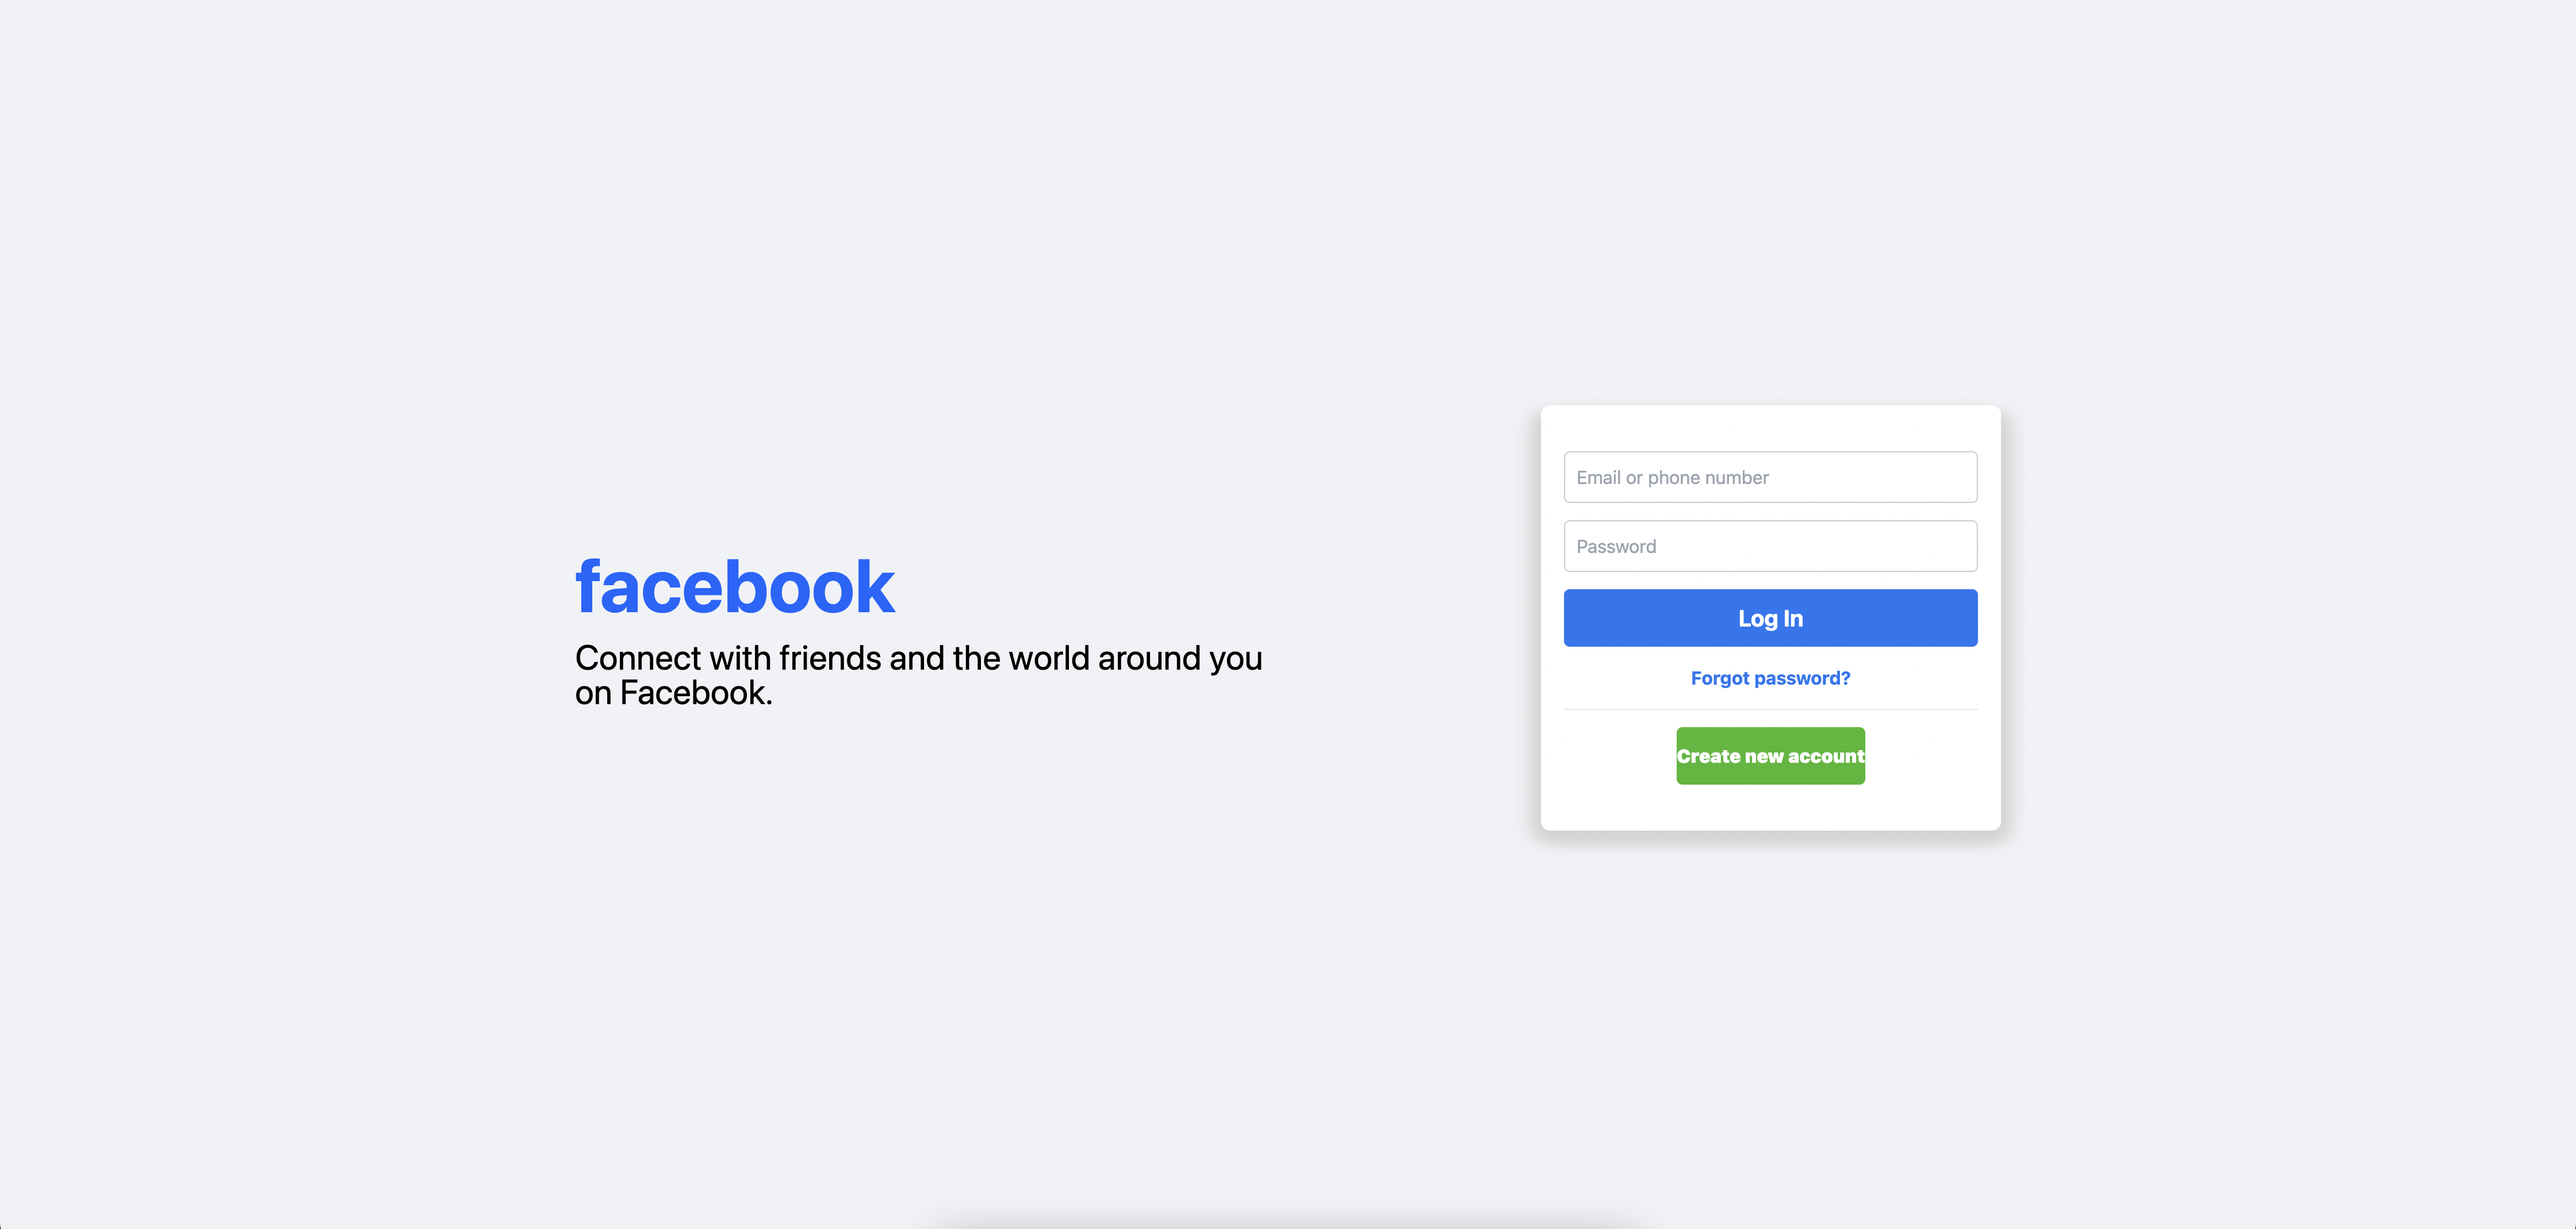
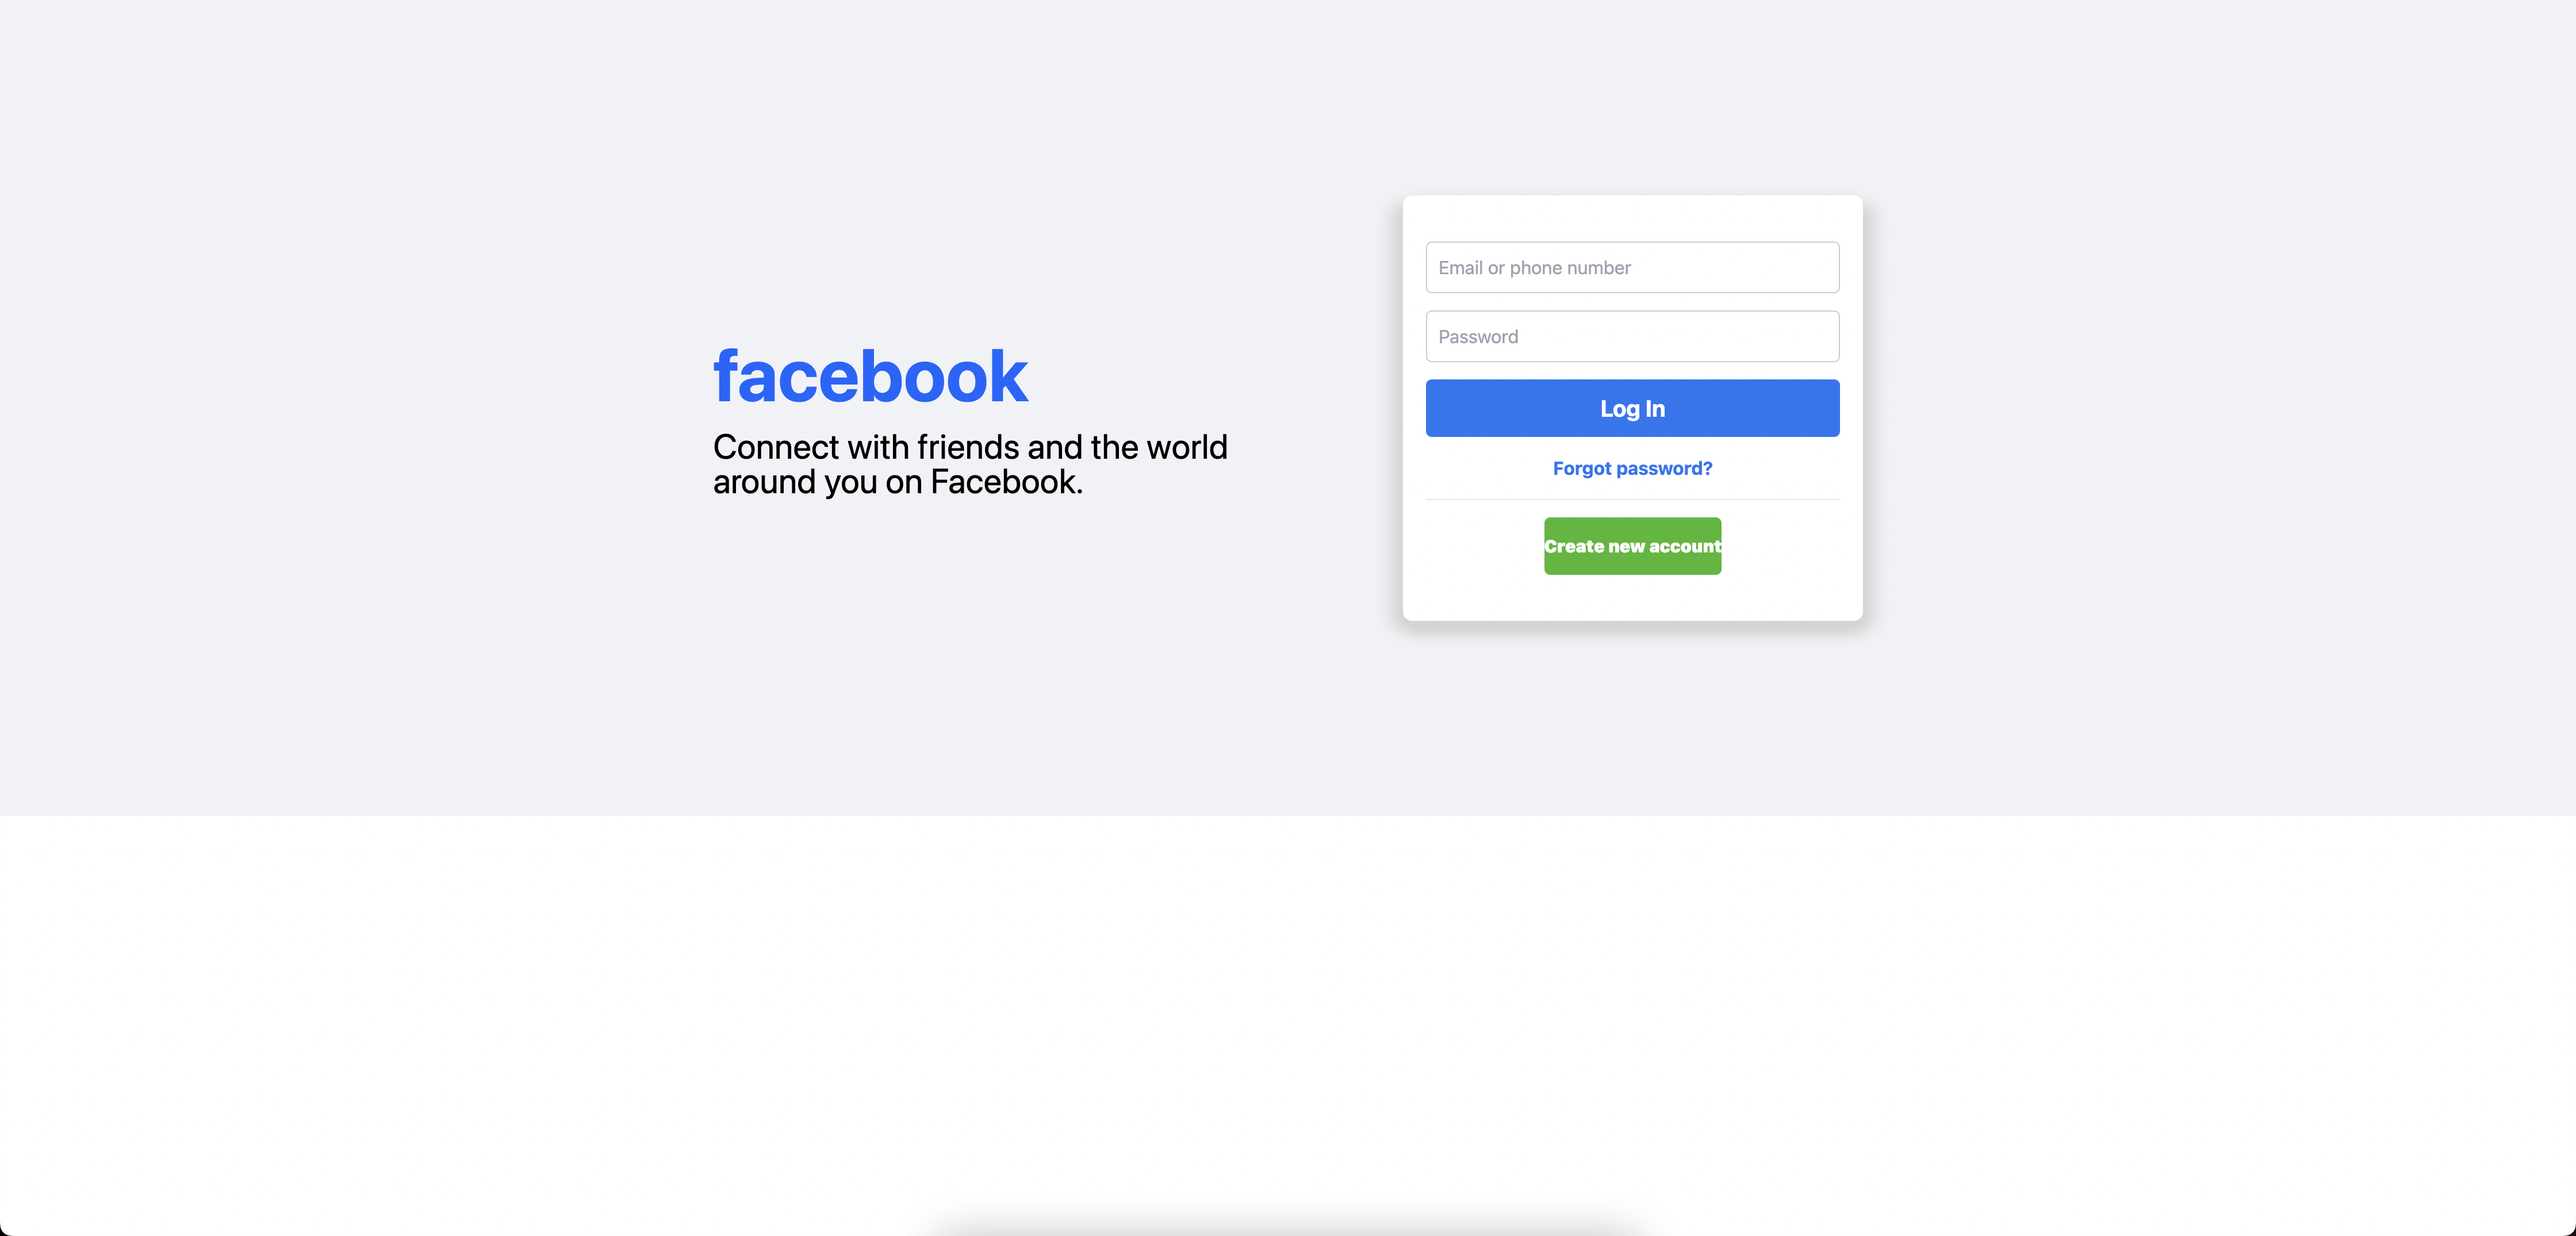
insta

diff --git a/shitass/src/pages/index.js b/shitass/src/pages/index.js
@@ -5,45 +5,114 @@ import Layout from "@/component/Layout";
 import Container from "@/styles/container.module.css";
 import PageText from "@/component/PageText";
 import Link from "next/link";
+import Image from "next/image";
 import buttonCss from "@/styles/button.module.css";
+import igCss from "@/styles/instacon.module.css";
+import InstaButton from "@/component/InstaButton";
+
+// export default function Home() {
+//   const loginBtn = {
+//     text: "Log In",
+//     bg: "#1a77f2",
+//     txtColor: "white",
+//     width: "90%",
+//     height: "50px",
+//     radius: "5px",
+//     fontSize: "20px",
+//   };
+//   const forgotBtn = {
+//     text: "Forgot password?",
+//     txtColor: "#1a77f2",
+//   };
+//   const createBtn = {
+//     text: "Create new account",
+//     txtColor: "white",
+//     bg: "#43b72a",
+//     width: "700%",
+//     height: "50px",
+//     radius: "5px",
+//     fontSize: "15px",
+//   };
+
+//   return (
+//     <div className={Container.container}>
+//       <PageText></PageText>
+//       <Layout>
+//         <Input placeholder={"Email or phone number"} />
+//         <Input placeholder={"Password"} password={"password"}></Input>
+//         <Button {...loginBtn} />
+//         <Button {...forgotBtn} />
+//         <hr className={Container.line}></hr>
+//         <Link href="/modal" className={buttonCss.button}>
+//           <Button {...createBtn}></Button>
+//         </Link>
+//       </Layout>
+//     </div>
+//   );
+// }
+
+const coms = [
+  { component: "InstaButton", params: { imgsrc: "/home.png", text: "Home" } },
+  {
+    component: "InstaButton",
+    params: { imgsrc: "/search.png", text: "Search" },
+  },
+  {
+    component: "InstaButton",
+    params: { imgsrc: "/compass.png", text: "Explore" },
+  },
+  { component: "InstaButton", params: { imgsrc: "/reels.png", text: "Reels" } },
+  {
+    component: "InstaButton",
+    params: { imgsrc: "/msngr.png", text: "Messenger" },
+  },
+  {
+    component: "InstaButton",
+    params: { imgsrc: "/heart.png", text: "Notifications" },
+  },
+  { component: "InstaButton", params: { imgsrc: "/add.png", text: "Create" } },
+
+  {
+    component: "InstaButton",
+    params: { imgsrc: "/profile.png", text: "Profile" },
+  },
+];
+
+const compToRender = [
+  {
+    component: "InstaButton",
+    params: { imgsrc: "/at.png", text: "Threads" },
+  },
+  {
+    component: "InstaButton",
+    params: { imgsrc: "/menu.png", text: "More" },
+  },
+];
 
 export default function Home() {
-  const loginBtn = {
-    text: "Log In",
-    bg: "#1a77f2",
-    txtColor: "white",
-    width: "90%",
-    height: "50px",
-    radius: "5px",
-    fontSize: "20px",
-  };
-  const forgotBtn = {
-    text: "Forgot password?",
-    txtColor: "#1a77f2",
-  };
-  const createBtn = {
-    text: "Create new account",
-    txtColor: "white",
-    bg: "#43b72a",
-    width: "700%",
-    height: "50px",
-    radius: "5px",
-    fontSize: "15px",
-  };
-
   return (
-    <div className={Container.container}>
-      <PageText></PageText>
-      <Layout>
-        <Input placeholder={"Email or phone number"} />
-        <Input placeholder={"Password"} password={"password"}></Input>
-        <Button {...loginBtn} />
-        <Button {...forgotBtn} />
-        <hr className={Container.line}></hr>
-        <Link href="/modal" className={buttonCss.button}>
-          <Button {...createBtn}></Button>
-        </Link>
-      </Layout>
+    <div className={igCss.container}>
+      <div>
+        <Image src="/iglogo.svg" width={100} height={100} alt="logo" />
+      </div>
+      <div className={igCss.middle}>
+        {coms.map((com, i) => {
+          return (
+            <InstaButton
+              key={i}
+              imgsrc={com.params.imgsrc}
+              text={com.params.text}
+            />
+          );
+        })}
+      </div>
+      <div className={igCss.bottom}>
+        {compToRender.map(({ component, params }, i) => {
+          return (
+            <InstaButton key={i} imgsrc={params.imgsrc} text={params.text} />
+          );
+        })}
+      </div>
     </div>
   );
 }

diff --git a/shitass/src/styles/instacon.module.css b/shitass/src/styles/instacon.module.css
@@ -1,0 +1,23 @@
+.container {
+  display: flex;
+  flex-direction: column;
+  justify-content: center;
+  align-items: center;
+  height: 100vh;
+  width: 500px;
+  border-right: 1px solid black;
+}
+
+.middle {
+  display: flex;
+  flex-direction: column;
+  gap: 10px;
+  margin-top: 30px;
+}
+
+.bottom {
+  margin-top: 30px;
+  display: flex;
+  flex-direction: column;
+  gap: 10px;
+}

diff --git a/shitass/src/component/InstaButton.js b/shitass/src/component/InstaButton.js
@@ -1,0 +1,13 @@
+import igbtnCss from "@/styles/instabtn.module.css";
+import Image from "next/image";
+
+const InstaButton = (props) => {
+  const { imgsrc = "", text } = props;
+  return (
+    <div className={igbtnCss.button}>
+      <Image src={imgsrc} width={30} height={30} alt="logo"></Image>
+      <p>{text}</p>
+    </div>
+  );
+};
+export default InstaButton;

diff --git a/shitass/src/pages/_document.js b/shitass/src/pages/_document.js
@@ -3,7 +3,7 @@ import { Html, Head, Main, NextScript } from "next/document";
 export default function Document() {
   return (
     <Html lang="en">
-      <title>Why u Do this</title>
+      <title>Facebook - login or sign up </title>
       <link href="./fb.ss"></link>
       <Head />
       <body>

diff --git a/shitass/src/styles/container.module.css b/shitass/src/styles/container.module.css
@@ -1,10 +1,9 @@
 .container {
-  height: 100vh;
+  height: 66vh;
   display: flex;
-  justify-content: space-between;
+  gap: 100px;
   align-items: center;
-  padding-left: 500px;
-  padding-right: 500px;
+  justify-content: center;
   background-color: #f0f2f5;
 }
 .line {

diff --git a/shitass/src/styles/pagetext.module.css b/shitass/src/styles/pagetext.module.css
@@ -1,5 +1,5 @@
 .content {
-  width: 600px;
+  width: 500px;
   display: flex;
   justify-content: start;
   flex-direction: column;
@@ -9,7 +9,7 @@
 }
 .title {
   color: #0766ff;
-  font-size: 65px;
+  font-size: 64px;
   font-weight: bolder;
 }
 .text {

diff --git a/shitass/src/styles/instabtn.module.css b/shitass/src/styles/instabtn.module.css
@@ -1,0 +1,8 @@
+.button {
+  display: flex;
+  align-items: center;
+  justify-content: space-between;
+  width: 80px;
+  height: 30px;
+  gap: 10px;
+}
